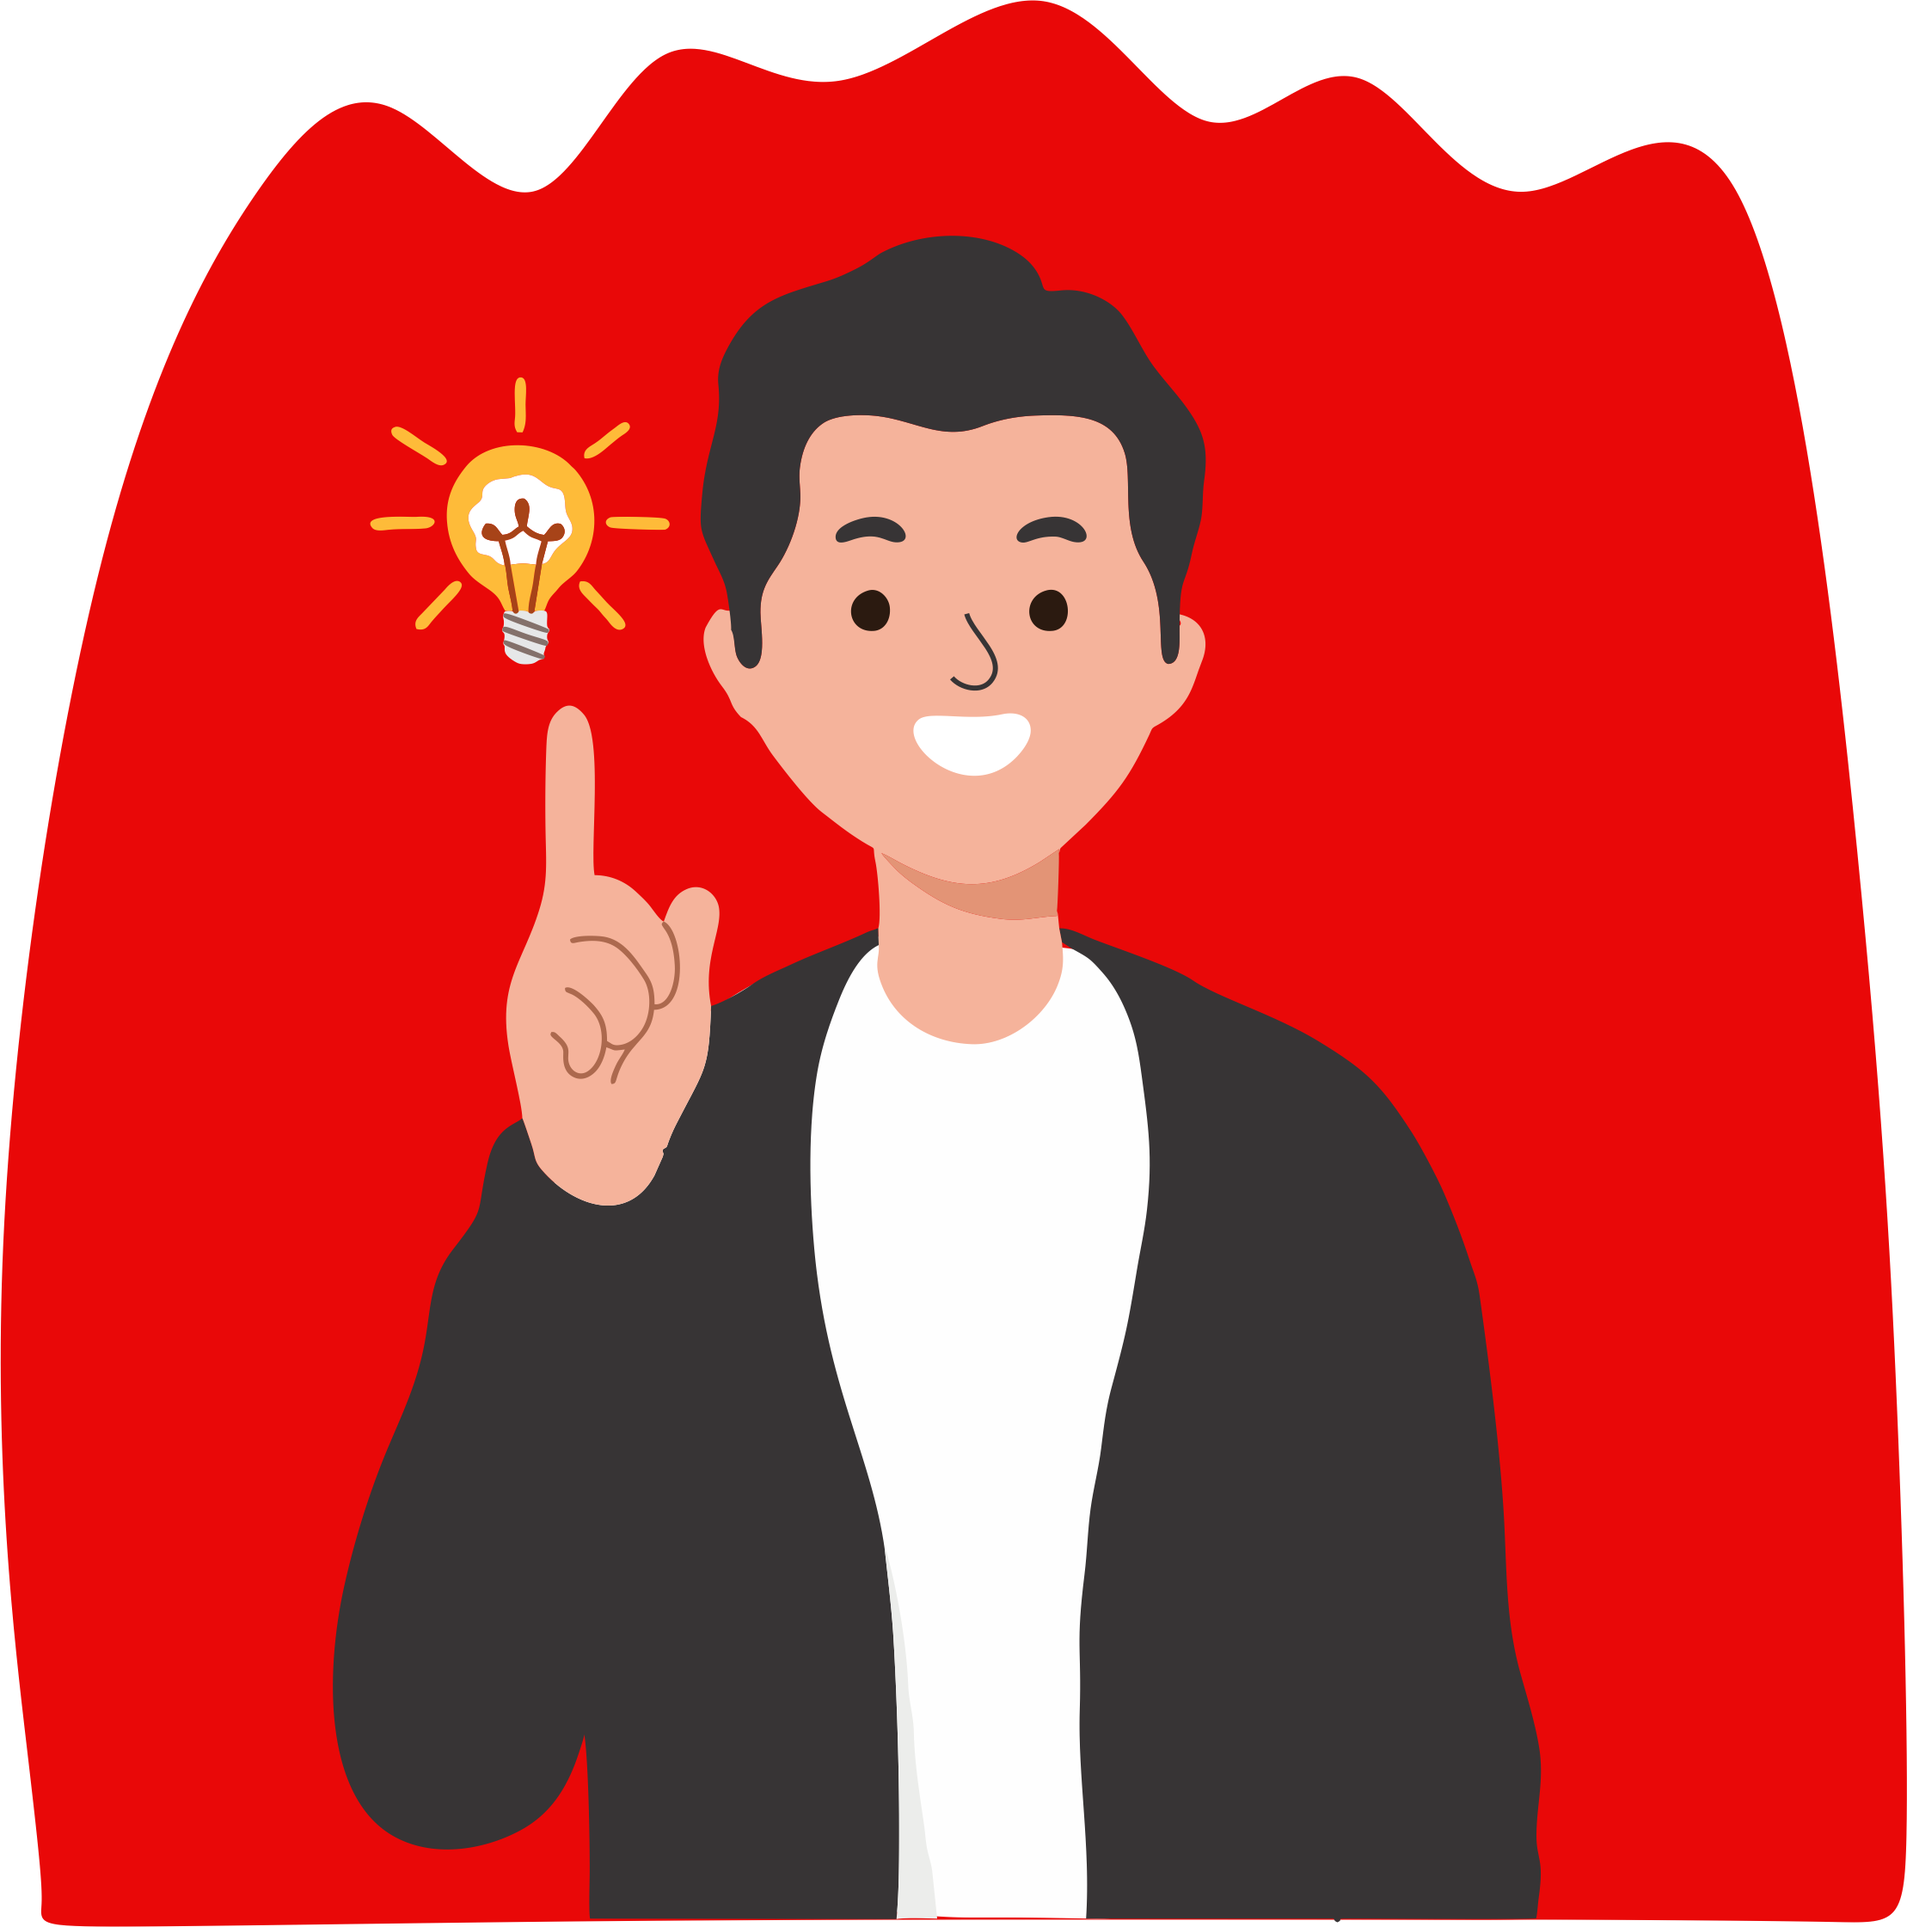
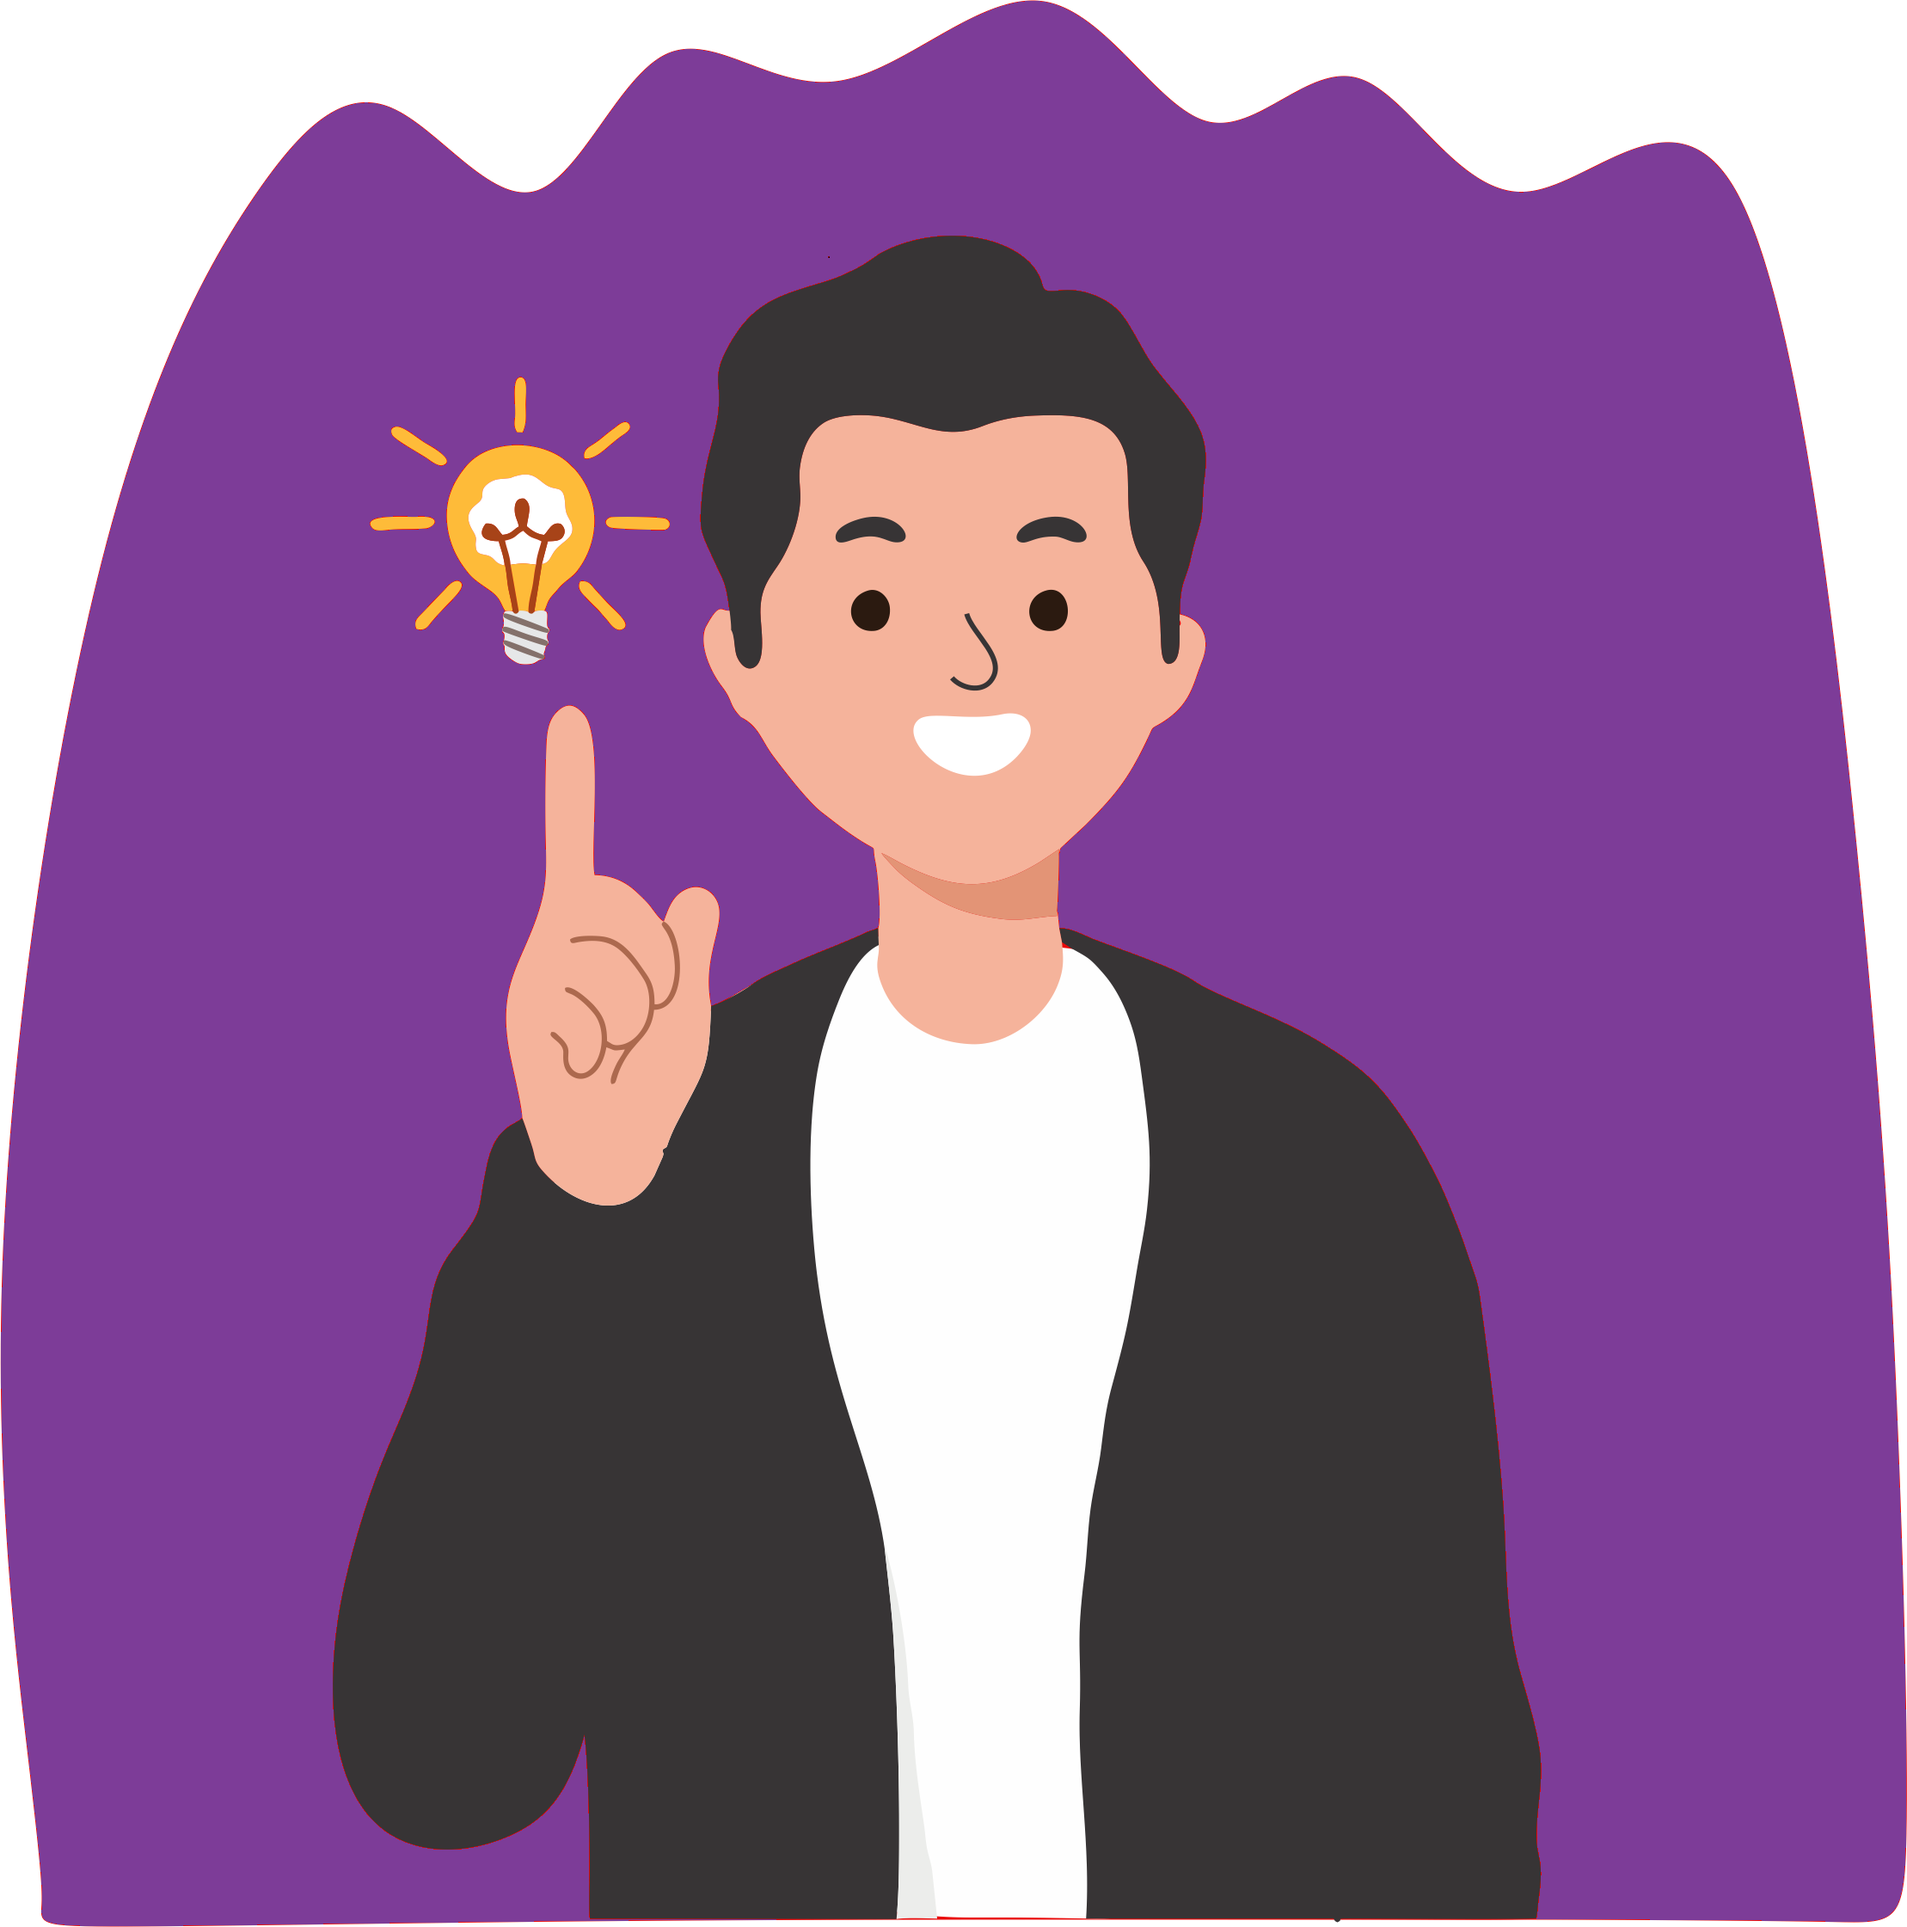
Actualización de portafolio
Actualización de portafolio

diff --git a/index.html b/index.html
@@ -31,7 +31,7 @@
       rel="stylesheet"
     />
     <link rel="shortcut icon" href="yo.png" type="image/x-icon" />
-    <title>Portafolio MN</title>
+    <title>Ernesto Lomar</title>
   </head>
   <body
     ondragstart="return false"
@@ -59,15 +59,16 @@
       </nav>
       <div class="contenedorflex">
         <div class="header-elemento img-fondo">
-          <img src="ernesto-lomar-fondo.png" alt="" />
+          <img src="ernestolomar_personaje.png" alt="" />
         </div>
         <div class="header-elemento">
           <h2 class="titulo-dw" id="titulo-dw">Programador</h2>
           <p id="p-info">
-            Especializado en el desarrollo de aplicaciones de escritorio, visión
-            artificial, paginas/sitios/aplicaciones web. Trabajando de manera
-            independiente para sacar tus proyectos adelante, no importa si son
-            escolares, personales o empresariales.
+            Me he especializado en el desarrollo de aplicaciones moviles, software de escritorio, 
+            proyectos relacionados con visión artificial, paginas/sitios/aplicaciones web, desarrollo 
+            de software embebido y programación de microcontroladores. Asegurando el funcionamiento
+            de cada proyecto realizado con pruebas de testing antes de cada entrega y ajustando el sistema 
+            a los requisitos establecidos.
           </p>
           <button id="btn-trabajos">
             Ver Trabajos<i class="fas fa-arrow-right"></i>
@@ -79,11 +80,12 @@
       <div class="sobremi">
         <h2 class="titulo-sobremi">Acerca de mi</h2>
         <p>
-          Hola me presento, soy Ernesto Lomar, programador en distintas areas.
-          Apasionado con todo lo relacionado con la tecnologia, encantado de la
-          creación del software. Soy una persona muy alegre, resposable,
-          amistoso, empatico, respetuoso, concentrado en cada proyecto y
-          haciendolo lo mejor posible de una manera estetica y optimizada.
+          Hola, soy Ernesto Lomar, programador en distintas areas tecnologicas.
+          Apasionado con todo lo relacionado a la tecnologia, encantado de la
+          creación del software y la capacitación a personal. Soy una persona muy alegre, resposable,
+          amistoso, empatico, respetuoso y etico. Actualmente soy estudiante universitario y trabajo 
+          para una empresa mexicana ocupando el cargo de Embedded Software Developer y a la vez teniendo 
+          proyectos como Freelancer.
         </p>
       </div>
       <div class="sobremi">
@@ -91,24 +93,36 @@
       </div>
     </div>
     <div class="contenedor-titulo-trabajos" id="proyectos">
-      <img src="titulo-trabajos.png" alt="" />
+      <img src="titulo_trabajos.png" alt="" />
     </div>
     <h2 class="trabajos" id="proyectos">Trabajos</h2>
     <div class="contenedor-trabajos">
       <div class="proyecto">
         <img src="paradise.jpg" alt="PARADISE" id="paradise" />
         <p>
-          Sitio Web de venta de casas, creado con puro HTML5, CSS3 y JavaScript.
+          Sitio Web de venta de casas, creado con HTML5, CSS3 y JavaScript.
         </p>
       </div>
       <div class="proyecto">
-        <img src="mvp.jpg" alt="MVP" id="mvp" />
-        <p>Sitio Web de desarrollo de software, creado con HTML5 y CSS3.</p>
+        <img src="barriles.png" alt="Proyecto de visión artificial" id="carreradebarriles"/>
+        <p>Proyecto realizado en python implementando visión artificial para carrera de barriles.
+        </p>
+      </div>
+      <div class="proyecto">
+        <img src="arduino_gps.jpg" alt="Proyecto de GPS en Arduino" id="arduinogps" />
+        <p>Proyecto realizado en Arduino para el envio de coordenadas GPS mediante protocolo TCP/IP desde 
+          un modem Quectel.
+        </p>
       </div>
     </div>
     <div class="cajacontenedorclientes">
       <h2 class="titulo-clientes" id="titulo-habilidades">Mis Habilidades</h2>
       <div class="cajaclientes">
+        <div class="cliente"></div>
+        <div class="cliente"></div>
+        <div class="cliente"></div>
+        <div class="cliente"></div>
+        <div class="cliente"></div>
         <div class="cliente"></div>
         <div class="cliente"></div>
         <div class="cliente"></div>
@@ -152,18 +166,18 @@
         <ul class="ul__ubicacion">
           <li>
             <i class="fab fa-whatsapp"></i
-            ><a href="tel:4445488104">WhatsApp: 4445488104</a>
+            ><a href="tel:4445488104">WhatsApp: 4442085194</a>
           </li>
           <li>
             <i class="far fa-envelope"></i
             ><a href="mailto:marioernestoficial@gmail.com"
-              >marionernestolomar@protonmail.ch</a
+              >marionernestolomar@proton.me</a
             >
           </li>
         </ul>
       </div>
       <div class="line"></div>
-      <h2 class="copy">© Copyright 2021 - Todos los derechos reservados</h2>
+      <h2 class="copy">© Copyright 2022 - Todos los derechos reservados - Ernesto Lomar</h2>
     </div>
     <script
       src="https://kit.fontawesome.com/6cb61f14da.js"

diff --git a/index.css b/index.css
@@ -10,7 +10,7 @@
 }
 
 ::-webkit-scrollbar-track {
-  background-color: #c00606;
+  background-color: #7D3C98;
   border-radius: 6px;
 }
 
@@ -53,7 +53,7 @@
 }
 
 #switch:checked + .lbl {
-  background: #c00606;
+  background: #7D3C98 ;
 }
 
 #switch {
@@ -82,7 +82,7 @@ h1 {
   font-family: "Ranchers", sans-serif;
   letter-spacing: 3px;
   font-size: 35px;
-  text-shadow: 2px 2px 5px #c00606;
+  text-shadow: 2px 2px 5px #7D3C98 ;
   cursor: default;
 }
 
@@ -175,7 +175,7 @@ nav {
 
 #btn-trabajos {
   border: 1px solid #fff;
-  background-color: #c00606;
+  background-color: #7D3C98 ;
   color: #fff;
   border-radius: 5px;
   outline: none;
@@ -199,7 +199,7 @@ nav {
 }
 
 #btn-trabajos:hover {
-  background-color: #900707;
+  background-color: #7D3C98 ;
   border: 1px solid #222;
   color: #aaa;
   border: 1px solid #aaa;
@@ -214,7 +214,7 @@ nav {
   flex-direction: row;
   flex-wrap: wrap;
   justify-content: center;
-  background-color: #e90808;
+  background-color: #7D3C98;
 }
 
 .sobremi {
@@ -278,10 +278,10 @@ nav {
 .proyecto {
   margin: 30px;
   width: 300px;
-  height: 300px;
-  background-color: #790505;
+  height: 320px;
+  background-color: #7D3C98;
   border-radius: 5px;
-  box-shadow: 0 0 15px #ff0000;
+  box-shadow: 0 0 15px #7D3C98;
   overflow: hidden;
 }
 
@@ -308,7 +308,7 @@ nav {
 }
 
 .cajacontenedorclientes {
-  background-color: #c00606;
+  background-color: #7D3C98;
   padding: 10px;
 }
 
@@ -322,7 +322,7 @@ nav {
   max-width: 80%;
   min-width: 80%;
   margin: auto;
-  background-color: #c00606;
+  background-color: #7D3C98;
 }
 
 .titulo-clientes {
@@ -366,15 +366,15 @@ nav {
     background-image: url(img4.png);
 }*/
 
-.cliente:nth-child(5) {
+.cliente:nth-child(4) {
   background-image: url(img5.png);
 }
 
-.cliente:nth-child(6) {
+.cliente:nth-child(5) {
   background-image: url(img6.png);
 }
 
-.cliente:nth-child(7) {
+.cliente:nth-child(6) {
   background-image: url(img7.png);
 }
 
@@ -386,8 +386,45 @@ nav {
   background-image: url(img9.png);
 }*/
 
-.cliente:nth-child(10) {
+.cliente:nth-child(7) {
   background-image: url(img10.png);
+}
+
+.cliente:nth-child(8) {
+  background-image: url(pyqt.png);
+  background-color: #fff;
+}
+
+.cliente:nth-child(9) {
+  background-image: url(github.jpg);
+}
+
+.cliente:nth-child(10) {
+  background-image: url(tcpip.png);
+}
+
+.cliente:nth-child(11) {
+  background-image: url(nfc.jpg);
+}
+
+.cliente:nth-child(12) {
+  background-image: url(arduino.png);
+}
+
+.cliente:nth-child(13) {
+  background-image: url(opencv.jpg);
+  background-repeat: no-repeat;
+  background-color: #fff;
+}
+
+.cliente:nth-child(14) {
+  background-image: url(raspberry-logo.jpg);
+  background-repeat: no-repeat;
+  background-color: #fff;
+}
+
+.cliente:nth-child(15) {
+  background-image: url(php.svg);
 }
 
 .cliente:hover {

diff --git a/main.js b/main.js
@@ -50,6 +50,7 @@ check.addEventListener('click', function(){
 
 let paginaParadise = document.getElementById("paradise");
 let paginaMvp = document.getElementById("mvp");
+let proyectoCarreraDebarriles= document.getElementById("carreradebarriles");
 
 paginaParadise.addEventListener('click', function(){
     location.href = "https://paradiseventacasas.000webhostapp.com";
@@ -57,6 +58,10 @@ paginaParadise.addEventListener('click', function(){
 
 paginaMvp.addEventListener('click', function(){
     location.href = "https://mvpmx.000webhostapp.com";
+});
+
+proyectoCarreraDebarriles.addEventListener('click', function(){
+    location.href = "https://1drv.ms/p/s!AmUjgZM7Yy7aiMsXXT9xoi8c10sjnw?e=sA9ZLs";
 });
 
 btnTrabajos.addEventListener('click', function(){
